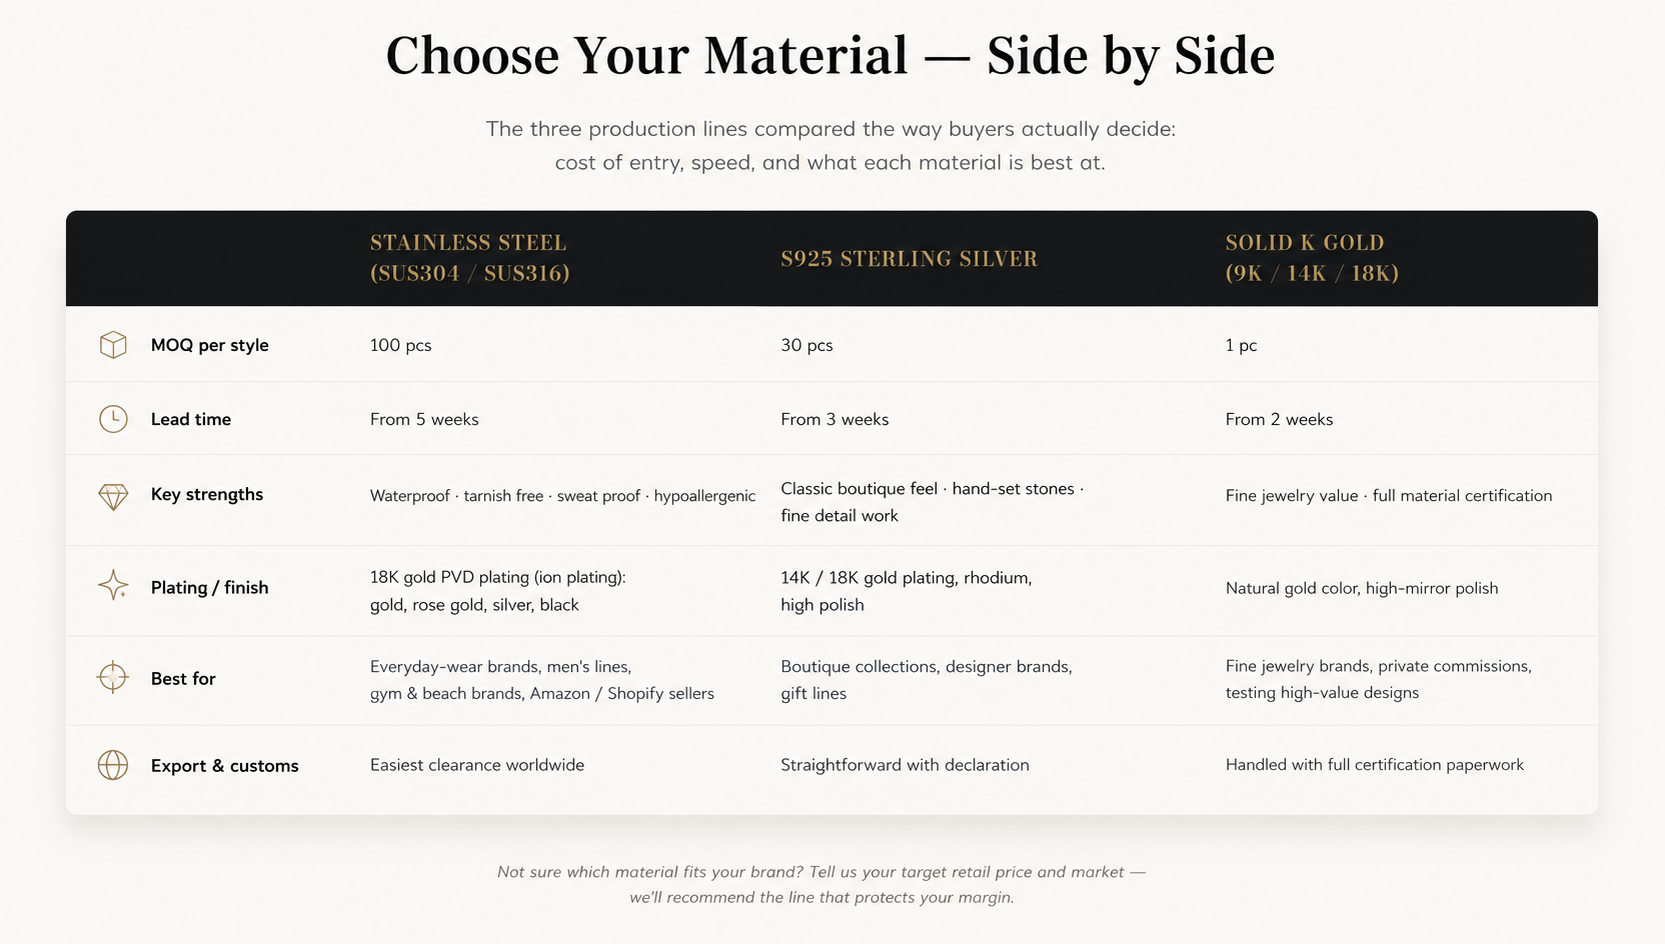
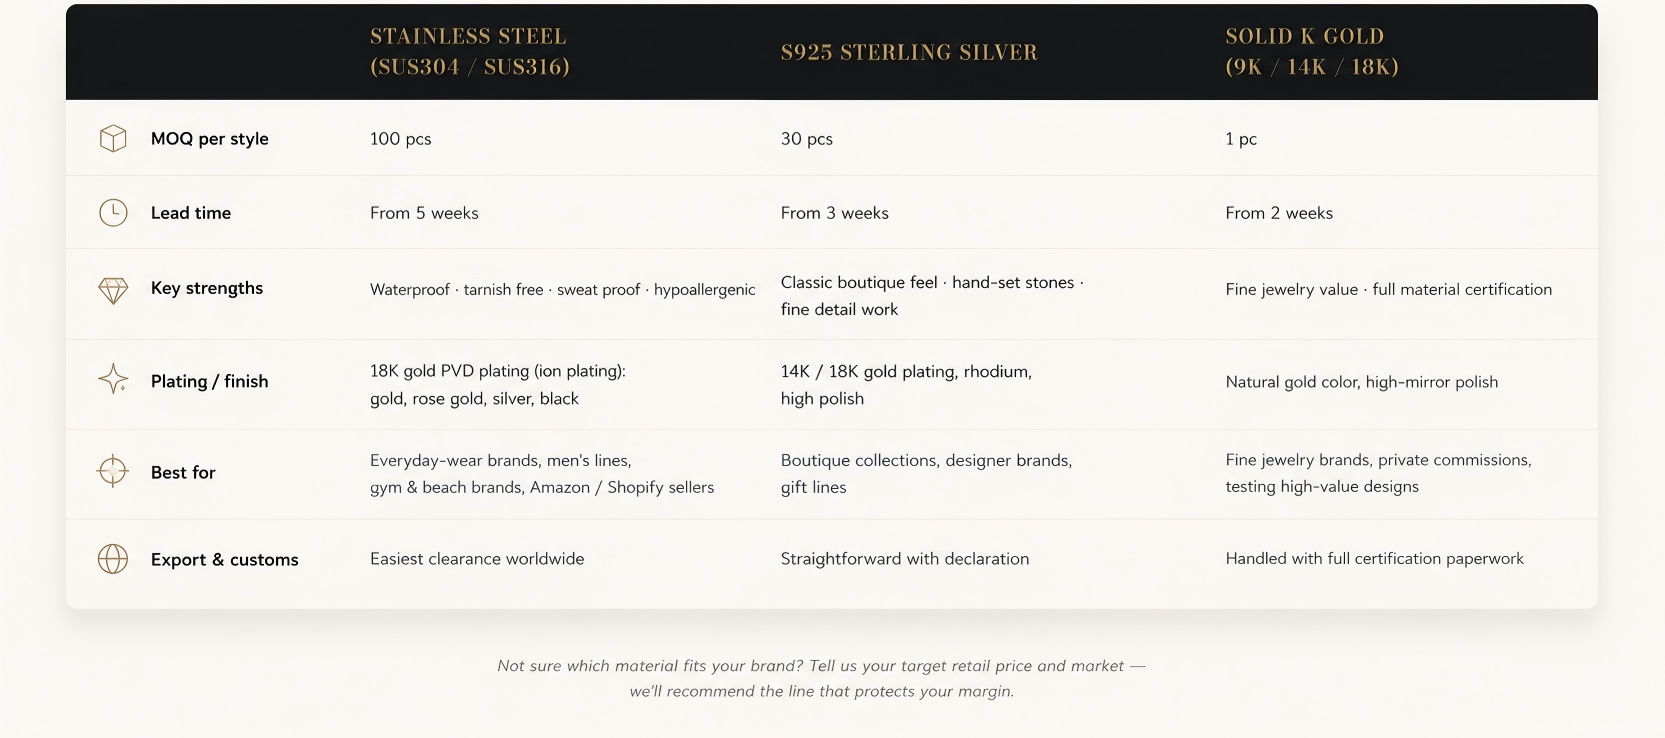
feat: service page — collapsible HTML tables, updated material image, fix quote intro copy

diff --git a/custom-jewelry-service.html b/custom-jewelry-service.html
@@ -128,7 +128,7 @@
     <meta property="og:url" content="https://www.aizjewelry.com/custom-jewelry-service">
     <meta property="og:type" content="website">
 
-    <link rel="stylesheet" href="style.css?v=2.2">
+    <link rel="stylesheet" href="style.css?v=2.3">
     <link rel="stylesheet" href="https://cdn.jsdelivr.net/npm/@tabler/icons-webfont@latest/tabler-icons.min.css">
     <link href="https://fonts.googleapis.com/css2?family=Bodoni+Moda:ital,opsz,wght@0,6..96,400..900;1,6..96,400..900&family=Inter:wght@300;400;600;700;800&display=swap" rel="stylesheet">
 </head>
@@ -273,56 +273,61 @@
             <div class="quote-img-wrap">
                 <img src="images/material-comparison.png" alt="Stainless Steel SUS304 SUS316 vs S925 Sterling Silver vs Solid K Gold 9K 14K 18K — MOQ, lead time, key strengths, plating and finish comparison for custom jewelry manufacturer China" loading="lazy">
             </div>
-            <div class="seo-table-hidden" aria-hidden="true">
-                <table>
-                    <thead>
-                        <tr>
-                            <th></th>
-                            <th>Stainless Steel (SUS304 / SUS316)</th>
-                            <th>S925 Sterling Silver</th>
-                            <th>Solid K Gold (9K / 14K / 18K)</th>
-                        </tr>
-                    </thead>
-                    <tbody>
-                        <tr>
-                            <td>MOQ per style</td>
-                            <td>100 pcs</td>
-                            <td>30 pcs</td>
-                            <td>1 pc</td>
-                        </tr>
-                        <tr>
-                            <td>Lead time</td>
-                            <td>From 5 weeks</td>
-                            <td>From 3 weeks</td>
-                            <td>From 2 weeks</td>
-                        </tr>
-                        <tr>
-                            <td>Key strengths</td>
-                            <td>Waterproof · tarnish free · sweat proof · hypoallergenic</td>
-                            <td>Classic boutique feel · hand-set stones · fine detail work</td>
-                            <td>Fine jewelry value · full material certification</td>
-                        </tr>
-                        <tr>
-                            <td>Plating / finish</td>
-                            <td>18K gold PVD plating (ion plating): gold, rose gold, silver, black</td>
-                            <td>14K / 18K gold plating, rhodium, high polish</td>
-                            <td>Natural gold color, high-mirror polish</td>
-                        </tr>
-                        <tr>
-                            <td>Best for</td>
-                            <td>Everyday-wear brands, men's lines, gym &amp; beach brands, Amazon / Shopify sellers</td>
-                            <td>Boutique collections, designer brands, gift lines</td>
-                            <td>Fine jewelry brands, private commissions, testing high-value designs</td>
-                        </tr>
-                        <tr>
-                            <td>Export &amp; customs</td>
-                            <td>Easiest clearance worldwide</td>
-                            <td>Straightforward with declaration</td>
-                            <td>Handled with full certification paperwork</td>
-                        </tr>
-                    </tbody>
-                </table>
-                <p>Not sure which material fits your brand? Tell us your target retail price and market — we'll recommend the line that protects your margin.</p>
+            <div class="collapsible-seo-wrap">
+                <button class="collapsible-toggle" onclick="this.classList.toggle('open');this.nextElementSibling.classList.toggle('open')" aria-expanded="false">
+                    View full comparison table <i class="ti ti-chevron-down"></i>
+                </button>
+                <div class="collapsible-content">
+                    <table class="moq-table">
+                        <thead>
+                            <tr>
+                                <th></th>
+                                <th>Stainless Steel (SUS304 / SUS316)</th>
+                                <th>S925 Sterling Silver</th>
+                                <th>Solid K Gold (9K / 14K / 18K)</th>
+                            </tr>
+                        </thead>
+                        <tbody>
+                            <tr>
+                                <td><strong>MOQ per style</strong></td>
+                                <td>100 pcs</td>
+                                <td>30 pcs</td>
+                                <td>1 pc</td>
+                            </tr>
+                            <tr>
+                                <td><strong>Lead time</strong></td>
+                                <td>From 5 weeks</td>
+                                <td>From 3 weeks</td>
+                                <td>From 2 weeks</td>
+                            </tr>
+                            <tr>
+                                <td><strong>Key strengths</strong></td>
+                                <td>Waterproof · tarnish free · sweat proof · hypoallergenic</td>
+                                <td>Classic boutique feel · hand-set stones · fine detail work</td>
+                                <td>Fine jewelry value · full material certification</td>
+                            </tr>
+                            <tr>
+                                <td><strong>Plating / finish</strong></td>
+                                <td>18K gold PVD plating (ion plating): gold, rose gold, silver, black</td>
+                                <td>14K / 18K gold plating, rhodium, high polish</td>
+                                <td>Natural gold color, high-mirror polish</td>
+                            </tr>
+                            <tr>
+                                <td><strong>Best for</strong></td>
+                                <td>Everyday-wear brands, men's lines, gym &amp; beach brands, Amazon / Shopify sellers</td>
+                                <td>Boutique collections, designer brands, gift lines</td>
+                                <td>Fine jewelry brands, private commissions, testing high-value designs</td>
+                            </tr>
+                            <tr>
+                                <td><strong>Export &amp; customs</strong></td>
+                                <td>Easiest clearance worldwide</td>
+                                <td>Straightforward with declaration</td>
+                                <td>Handled with full certification paperwork</td>
+                            </tr>
+                        </tbody>
+                    </table>
+                    <p class="moq-note">Not sure which material fits your brand? Tell us your target retail price and market — we'll recommend the line that protects your margin.</p>
+                </div>
             </div>
         </div>
     </section>
@@ -332,42 +337,54 @@
         <div class="container">
             <div class="section-header">
                 <h2>What's Inside a Custom Jewelry Quote</h2>
-                <p>Most factories keep this vague. We'd rather you know exactly what you're paying for — before you commit to anything.</p>
+                <p>We'd rather you know exactly what you're paying for — before you commit to anything.</p>
             </div>
             <div class="quote-img-wrap">
                 <img src="images/quote-breakdown.png" alt="Custom jewelry quote breakdown — 3D Design Render JCAD picture fee, mold development, sample fee, unit price, international shipping DAP DDP explained" loading="lazy">
             </div>
-            <div class="seo-table-hidden" aria-hidden="true">
-                <table>
-                    <tbody>
-                        <tr>
-                            <td>3D Design Render / JCAD picture</td>
-                            <td>One-time, per style</td>
-                            <td>Design fee required to commence. We begin work upon payment and include one round of minor revisions after the initial draft. Major structural or stylistic changes incur additional fees based on complexity.</td>
-                        </tr>
-                        <tr>
-                            <td>Mold development</td>
-                            <td>One-time, per style</td>
-                            <td>Paid once when a new style enters production. Reorders of the same style never pay it again.</td>
-                        </tr>
-                        <tr>
-                            <td>Sample fee</td>
-                            <td>One-time, per style</td>
-                            <td>Covers the cost of a physical prototype before mass production.</td>
-                        </tr>
-                        <tr>
-                            <td>Unit price</td>
-                            <td>Per piece</td>
-                            <td>Based on metal weight, stone specs, and craftsmanship. Better pricing for higher volumes.</td>
-                        </tr>
-                        <tr>
-                            <td>International shipping</td>
-                            <td>Quoted per shipment</td>
-                            <td>Calculated separately for each batch based on weight, dimensions, and method (International Express or Freight Forwarder). Terms: typically DAP (Delivery at Place, duties unpaid). DDP (Delivered Duty Paid) available for select countries. Note: excludes destination import duties, VAT, and local clearance fees.</td>
-                        </tr>
-                    </tbody>
-                </table>
-                <p>Every quote is itemized line by line and delivered within 1–2 business days. Note: once a master mold is opened, structural changes are not possible — we always ask you to confirm the 3D Design Render or JCAD picture carefully first.</p>
+            <div class="collapsible-seo-wrap">
+                <button class="collapsible-toggle" onclick="this.classList.toggle('open');this.nextElementSibling.classList.toggle('open')" aria-expanded="false">
+                    View full quote breakdown <i class="ti ti-chevron-down"></i>
+                </button>
+                <div class="collapsible-content">
+                    <table class="moq-table">
+                        <thead>
+                            <tr>
+                                <th>Cost item</th>
+                                <th>Type</th>
+                                <th>How it works</th>
+                            </tr>
+                        </thead>
+                        <tbody>
+                            <tr>
+                                <td><strong>3D Design Render / JCAD picture</strong></td>
+                                <td>One-time, per style</td>
+                                <td>Design fee required to commence. We begin work upon payment and include one round of minor revisions after the initial draft. Major structural or stylistic changes incur additional fees based on complexity.</td>
+                            </tr>
+                            <tr>
+                                <td><strong>Mold development</strong></td>
+                                <td>One-time, per style</td>
+                                <td>Paid once when a new style enters production. Reorders of the same style never pay it again.</td>
+                            </tr>
+                            <tr>
+                                <td><strong>Sample fee</strong></td>
+                                <td>One-time, per style</td>
+                                <td>Covers the cost of a physical prototype before mass production.</td>
+                            </tr>
+                            <tr>
+                                <td><strong>Unit price</strong></td>
+                                <td>Per piece</td>
+                                <td>Based on metal weight, stone specs, and craftsmanship. Better pricing for higher volumes.</td>
+                            </tr>
+                            <tr>
+                                <td><strong>International shipping</strong></td>
+                                <td>Quoted per shipment</td>
+                                <td>Calculated separately for each batch based on weight, dimensions, and method (International Express or Freight Forwarder). Terms: typically DAP (Delivery at Place, duties unpaid). DDP (Delivered Duty Paid) available for select countries. Note: excludes destination import duties, VAT, and local clearance fees.</td>
+                            </tr>
+                        </tbody>
+                    </table>
+                    <p class="moq-note">Every quote is itemized line by line and delivered within 1–2 business days. Note: once a master mold is opened, structural changes are not possible — we always ask you to confirm the 3D Design Render or JCAD picture carefully first.</p>
+                </div>
             </div>
         </div>
     </section>

diff --git a/style.css b/style.css
@@ -2692,3 +2692,30 @@ footer p {
     white-space: nowrap;
     border: 0;
 }
+
+.collapsible-seo-wrap { margin-top: 1.5rem; }
+.collapsible-toggle {
+    display: flex;
+    align-items: center;
+    gap: 8px;
+    background: none;
+    border: 1px solid #e0d0b0;
+    border-radius: 6px;
+    padding: 10px 20px;
+    font-size: 14px;
+    font-weight: 600;
+    color: #b8975a;
+    cursor: pointer;
+    margin: 0 auto;
+    transition: background 0.2s;
+}
+.collapsible-toggle:hover { background: #faf7f0; }
+.collapsible-toggle .ti-chevron-down { transition: transform 0.2s; }
+.collapsible-toggle.open .ti-chevron-down { transform: rotate(180deg); }
+.collapsible-content {
+    display: none;
+    margin-top: 1.5rem;
+    overflow-x: auto;
+}
+.collapsible-content.open { display: block; }
+.seo-table-hidden { display: none; }